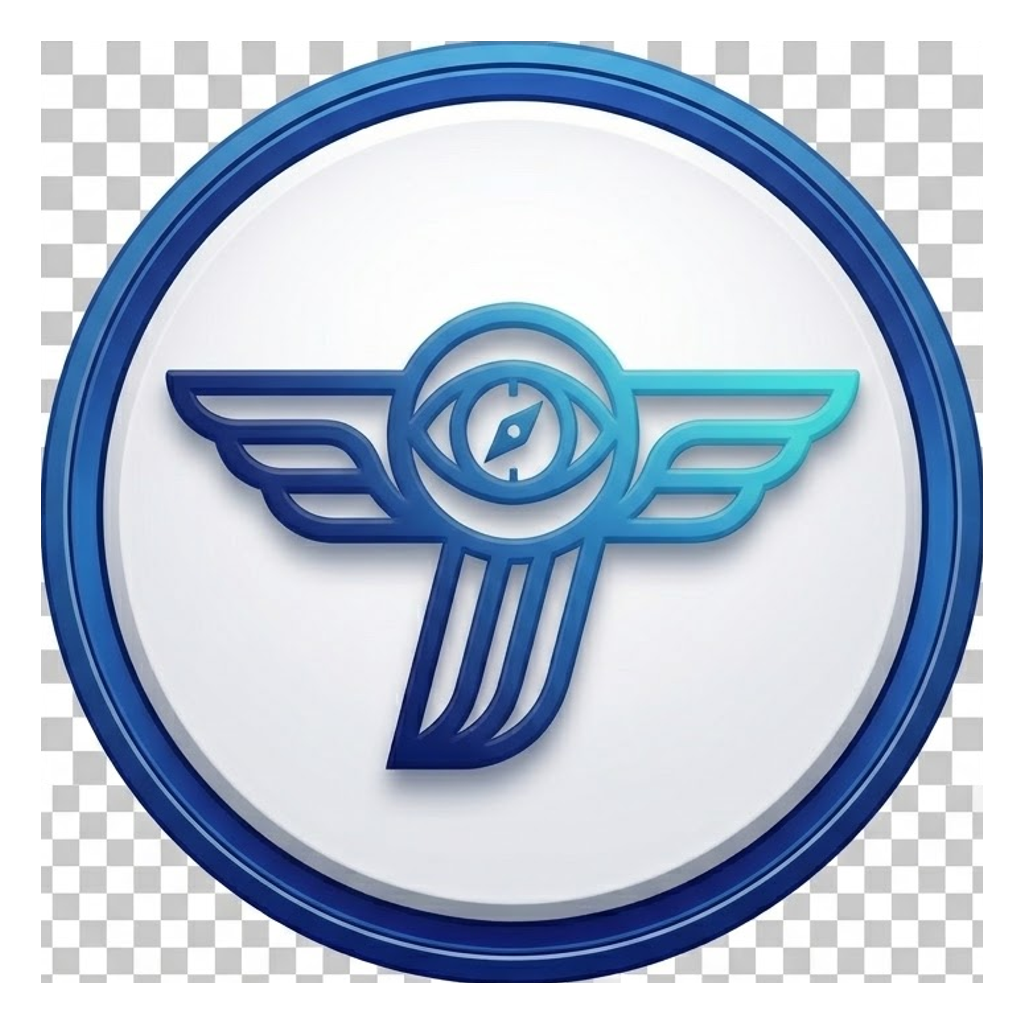
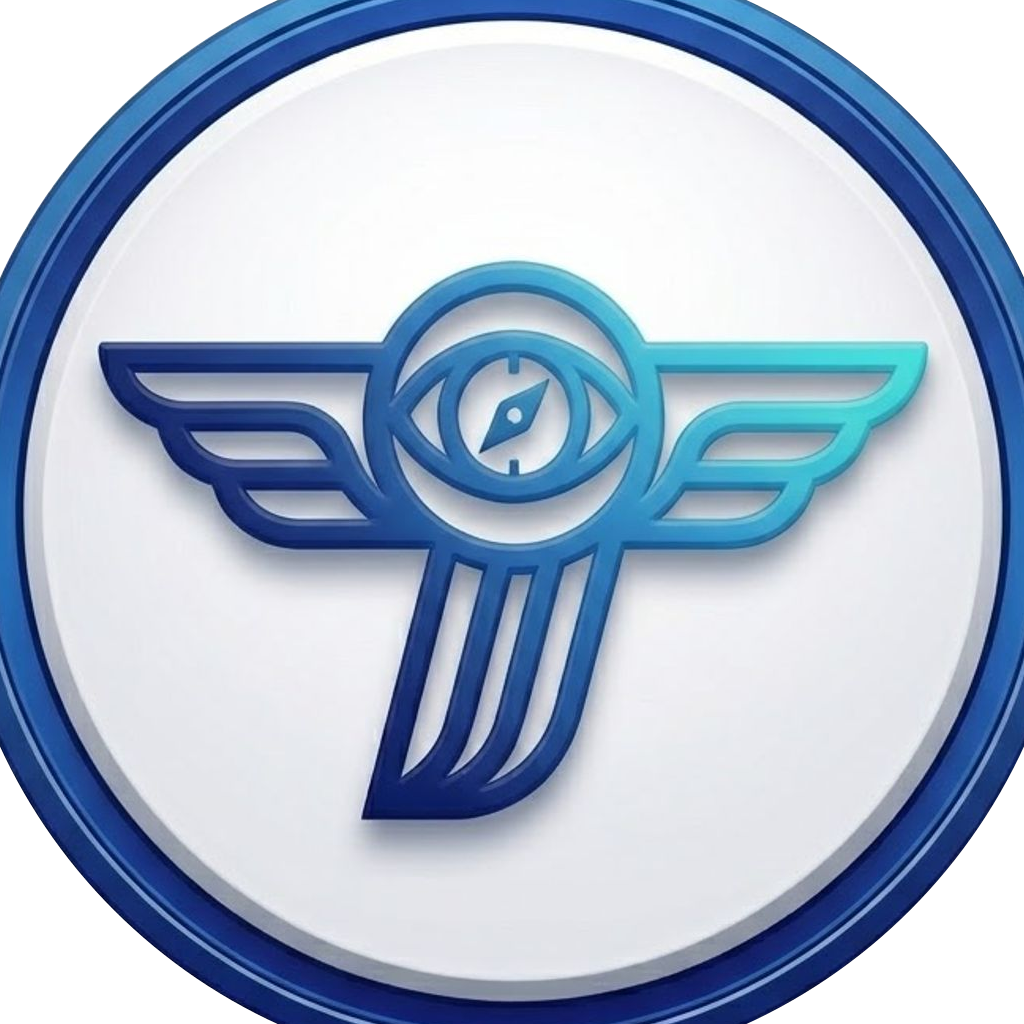
fix(release): 앱아이콘 110% 채움 + Plan탭 홈버튼 + needs-rebuild 정밀도 개선
- 새 앱아이콘(iOS·스토어·파비콘·Android adaptive) 92%/61%→110% 채움 재작업.
  실기기 비교(경쟁앱)+링두께 실측(8방향 픽셀스캔)으로 안전마진 확인 후 사장님 승인.
- 하단탭 "Plan" = 홈버튼(어디서든 눌러도 여정플래너 홈으로) 신규 배선.
  MapToggleContext에 기존 aiOpinionRequestedAt과 동일 패턴으로 homeRequestedAt 신호 추가.
  판단3종 반복 라운드로 경합 3건 정리: 로딩중 무시+즉시소거, restoredTrip 플래그 청소,
  restoreItineraryById의 loadingStep 리셋 누락.
- scripts/needs-rebuild.mjs: 아이콘·스플래시 이미지 파일 "내용" 변경(경로 동일이라 app.json
  텍스트로는 안 잡히던 빈틈) 감지 추가 + 굽기 필요인데 버전번호 안 올렸으면 경고하는 대조 로직 추가
  (2026-08-19 Play콘솔 versionCode 거부 사고 재발 방지, 하드코딩 없이 app.json 직접 파싱).

§22 기계검증+실증+판단3종(반복) 전부 통과.

diff --git a/client/screens/trip-planner/hooks/useTripPlanner.ts b/client/screens/trip-planner/hooks/useTripPlanner.ts
@@ -73,6 +73,9 @@ export function useTripPlanner(initialRequest?: Partial<TripFormData>) {
     isAuthed,
     // 🔒 2026-08-05 사장님 SSOT = 여정 슬롯 [해설 듣기] 관문용(PlaceSlotCard 로 내려보냄).
     requestLogin,
+    // ⚠ 2026-08-19 = 하단탭 "Plan" = 홈버튼 신호(MainTabNavigator tabPress → 여기서 Input으로 초기화).
+    homeRequestedAt,
+    clearHomeRequest,
   } = useMapToggle();
   const { t, i18n } = useTranslation();
 
@@ -225,6 +228,34 @@ export function useTripPlanner(initialRequest?: Partial<TripFormData>) {
     setScreen("Input");
   }, [initialRequest, navigation, restoredTrip]);
 
+  // ⚠ 수정금지(승인필요) 2026-08-19 사장님 승인 = 하단탭 "Plan" = 홈버튼 신호 수신.
+  //   MainTabNavigator가 물리 탭터치 시에만 발신(requestHome) → 여기서 handleExitResult의 기본 초기화(숙소 플래그 정리+Input 전환)와 동일 로직 실행(§16 재사용).
+  //   ⚠ 수정금지(승인필요) 2026-08-19 사장님 승인(판단3종 회귀 지적 반영) = Loading 중엔 무시.
+  //   여정생성(executeGenerate)·저장여정복원(restoreItineraryById) 모두 Loading 동안 비동기 응답을 기다리는데,
+  //   그 사이 홈으로 나가 Input을 다시 건드리면 늦게 온 응답이 그 내용을 덮어씀(경합) — 원래(이 기능 추가 전)도
+  //   Home 탭에 리스너가 없어 Loading 중엔 나갈 방법 자체가 없었다 = 그 원래 동작을 그대로 복원.
+  //   전문가·Tripis 탭은 TripPlannerScreen 상태를 안 건드리는 독립 오버레이라 이 가드와 무관(그대로 계속 작동).
+  useEffect(() => {
+    if (!homeRequestedAt) return;
+    if (screen === "Loading") {
+      // 로딩 중 눌림 = 무시하고 신호도 즉시 비움(그대로 두면 로딩 끝난 순간 뒤늦게 재발동해 Result를 다시 Input으로 덮어씀).
+      clearHomeRequest();
+      return;
+    }
+    // ⚠ 수정금지(승인필요) 2026-08-19 사장님 승인 = 홈(Input)은 항상 새 여정을 만들 수 있는 빈 상태가 기본.
+    //   프로필에서 열어본 여정 꼬리표(restoredTrip)가 남아있으면 안 됨 — 여기서 같이 청소.
+    setRestoredTrip(false);
+    setFormData((prev) => ({
+      ...prev,
+      accommodationCoords: undefined,
+      accommodationName: undefined,
+      accommodationAddress: undefined,
+      accommodationPlaceId: undefined,
+    }));
+    setScreen("Input");
+    clearHomeRequest();
+  }, [homeRequestedAt, clearHomeRequest, screen]);
+
   // ⚠ 2026-07-31 사장님 승인(BTS D단계 FE-4) = 폼을 실어 열렸으면(같이 떠나요) 입력화면 건너뛰고 즉시 생성 1회.
   //   ref 잠금 = 1회만. **로그인 확인 후에만 잠금**(§22 검증) — 비로그인 상태에서 잠가버리면
   //   로그인해도 재발사가 없어 사용자가 입력화면에 방치됐다. 로그인되면(isAuthed) 그때 1회 발사.
@@ -293,6 +324,14 @@ export function useTripPlanner(initialRequest?: Partial<TripFormData>) {
   //   PUT(원본 덮어쓰기)이 아니라 POST(내 여정 새 행)로 감 = 타인 원본 보호. 기본(opts 없음=프로필 카드 복원)은 종전과 동일하게 targetId 세팅.
   const restoreItineraryById = useCallback(
     async (targetId: number, opts?: { shared?: boolean }) => {
+      // ⚠ 수정금지(승인필요) 2026-08-19 사장님 승인 = GET 응답 오기 전 잠깐 Input 화면이 그대로 보이던 문제
+      //   (탭 전환은 즉시인데 setScreen("Result")는 요청 완료 후라 그 사이 Input이 스침) 수정.
+      //   기존 3states(Input/Loading/Result) 중 Loading 재사용 = 새 상태 발명 없음(§16).
+      //   ⚠ 수정금지(승인필요) 2026-08-19 사장님 승인(판단3종 지적) = loadingStep도 0으로 리셋.
+      //   안 하면 직전 생성에서 남은 단계값이 그대로 남아 "마지막으로 꼼꼼히 확인 중" 같은
+      //   엉뚱한 문구가 단순 조회(복원)인데도 보임(useGenerateItinerary와 동일 관례 맞춤).
+      setLoadingStep(0);
+      setScreen("Loading");
       try {
         const res = await apiRequest("GET", `/api/itineraries/${targetId}`);
         const data = await res.json();
@@ -302,6 +341,7 @@ export function useTripPlanner(initialRequest?: Partial<TripFormData>) {
             "[TripPlanner] 저장여정 복원 실패: rawData 없음",
             targetId,
           );
+          setScreen("Input"); // Loading에 갇히지 않도록 복귀
           return;
         }
         setItinerary(raw as Itinerary);
@@ -338,6 +378,7 @@ export function useTripPlanner(initialRequest?: Partial<TripFormData>) {
         setScreen("Result");
       } catch (e) {
         console.warn("[TripPlanner] 저장여정 복원 오류:", e);
+        setScreen("Input"); // Loading에 갇히지 않도록 복귀
       }
     },
     [],

diff --git a/client/contexts/MapToggleContext.tsx b/client/contexts/MapToggleContext.tsx
@@ -21,6 +21,12 @@ interface MapToggleContextType {
   aiOpinionRequestedAt: number | null;
   requestAiOpinion: () => void;
   clearAiOpinionRequest: () => void;
+  // ⚠ 수정금지(승인필요) 2026-08-19 사장님 승인 = 하단탭 "Plan" = 앱의 홈버튼 개념(어디서든 눌러도 여정플래너 홈으로).
+  //   AI의견 신호와 동일 패턴(§16 재사용) = MainTabNavigator가 물리 탭터치 시에만 발신, useTripPlanner가 수신해 Input으로 초기화.
+  //   프로필 카드클릭(navigation.navigate 프로그램호출, itineraryId 동반)은 tabPress 이벤트가 아니라 이 신호와 무관(복원 유지).
+  homeRequestedAt: number | null;
+  requestHome: () => void;
+  clearHomeRequest: () => void;
   // ⚠ 사장님 SSOT 2026-07-14 = 하단탭 "전문가" 버튼 → 여정화면 위 오버레이(AI의견과 동일 패턴). 별도 화면 아님(§16 재사용·§19 옛 탭화면 폐기).
   //   2026-07-24 사장님 승인 = payload 옵션 추가: 일별 [바로 예약하기] = {mode:'booking', day:n} 로 열면 예약 작성뷰로 오픈(무인자 호출 = 기존 그대로).
   expertRequestedAt: number | null;
@@ -77,6 +83,9 @@ const MapToggleContext = createContext<MapToggleContextType>({
   aiOpinionRequestedAt: null,
   requestAiOpinion: () => {},
   clearAiOpinionRequest: () => {},
+  homeRequestedAt: null,
+  requestHome: () => {},
+  clearHomeRequest: () => {},
   expertRequestedAt: null,
   expertOpenPayload: null,
   requestExpert: () => {},
@@ -111,6 +120,7 @@ export function MapToggleProvider({ children }: { children: React.ReactNode }) {
   const [aiOpinionRequestedAt, setAiOpinionRequestedAt] = useState<
     number | null
   >(null);
+  const [homeRequestedAt, setHomeRequestedAt] = useState<number | null>(null);
   const [expertRequestedAt, setExpertRequestedAt] = useState<number | null>(
     null,
   );
@@ -174,6 +184,12 @@ export function MapToggleProvider({ children }: { children: React.ReactNode }) {
   const clearAiOpinionRequest = useCallback(() => {
     setAiOpinionRequestedAt(null);
   }, []);
+  const requestHome = useCallback(() => {
+    setHomeRequestedAt(Date.now());
+  }, []);
+  const clearHomeRequest = useCallback(() => {
+    setHomeRequestedAt(null);
+  }, []);
   // ⚠ 사장님 SSOT 2026-07-14 = 전문가 오버레이 트리거(AI의견과 동일 트릭 = 매 요청 새 타임스탬프 → 같은 화면 재클릭도 useEffect 재실행).
   //   2026-07-24 = payload(예약 모드) 동반 가능. ExpertSheet가 마운트 시 1회 소비 후 clearExpertOpenPayload(미클리어 = 다음 일반 열기 오염).
   const requestExpert = useCallback(
@@ -225,6 +241,9 @@ export function MapToggleProvider({ children }: { children: React.ReactNode }) {
         aiOpinionRequestedAt,
         requestAiOpinion,
         clearAiOpinionRequest,
+        homeRequestedAt,
+        requestHome,
+        clearHomeRequest,
         expertRequestedAt,
         expertOpenPayload,
         requestExpert,

diff --git a/client/navigation/MainTabNavigator.tsx b/client/navigation/MainTabNavigator.tsx
@@ -60,6 +60,7 @@ export default function MainTabNavigator() {
     authChangedAt,
     requestLogin,
     isAuthed,
+    requestHome,
   } = useMapToggle();
   // ⚠ 수정금지(승인필요) — 삼성폰 하단 3버튼 겹침 방지 (SafeArea 여백)
   const insets = useSafeAreaInsets();
@@ -239,6 +240,15 @@ export default function MainTabNavigator() {
               <TabBarLabel label={t("tab.plan")} color={color} />
             ),
             headerShown: false,
+          }}
+          listeners={{
+            // ⚠ 수정금지(승인필요) 2026-08-19 사장님 승인 = Plan 탭 = 홈페이지의 홈버튼과 같은 개념 =
+            //   어디서 눌러도 여정플래너 홈(Input)으로 고정. 기존엔 탭 전환만 되고 화면은 직전 내부상태
+            //   (예: Result)를 그대로 유지해 갇히는 문제. 프로필 카드클릭(navigation.navigate 프로그램호출)은
+            //   tabPress 이벤트가 아니라서 이 신호와 무관 = 여정 복원과 충돌 없음. BTS는 별개 스택이라 무관.
+            tabPress: () => {
+              requestHome();
+            },
           }}
         />
         {/* 🧠 AI 의견 (여정 생성 후에만 활성. 지도는 결과화면 고정섹션이라 이 탭 자리를 대체함) */}

diff --git a/docs/2026-08-14 실사용자 관점 AAB·IPA 앱버전 최적화.md b/docs/2026-08-14 실사용자 관점 AAB·IPA 앱버전 최적화.md
@@ -25,11 +25,11 @@
 
 > 사장님 지시: 개별 수정마다 재빌드하지 말고 **모아서 한 번에 고친 뒤 1회만 재빌드**. 아래는 조사 완료 후 코드 미착수 상태.
 
-- [ ] **1. 여정 결과화면 뒤로가기 → 항상 홈으로만 감(정합 위반)**
+- [x] **1. 여정 결과화면 뒤로가기 → 항상 홈으로만 감(정합 위반) — 완료(커밋 `2e6035e`)**
   - 문제점: `useTripPlanner.ts:199-215` `handleExitResult`가 BTS 전용 플래그(`initialRequest`)만 보고, 프로필 복원 신호(`restoredTrip`, 326줄에 이미 존재)는 안 봐서 무조건 `setScreen("Input")`(홈)行.
   - 해결책: `restoredTrip`이면 `navigation.navigate("Profile")`, BTS(`initialRequest`)는 기존 유지, 나머지는 기존대로 홈 — 기존 state 1개만 조건 추가(신규 발명 없음).
   - 개선효과: 프로필에서 연 여정은 뒤로가기 한 번에 프로필로 복귀.
-- [ ] **2. 로그인창 우상단 X 버튼이 안 눌림**
+- [x] **2. 로그인창 우상단 X 버튼이 안 눌림 — 완료(커밋 `2e6035e`)**
   - 문제점: `LoginSheet.tsx:379-399` X버튼과 `ScrollView`(로그인폼)가 형제요소인데 X버튼에 `zIndex` 없어 `ScrollView`가 터치를 가로챔(로직버그 아님, z-order 문제). 싱글톤 컴포넌트(`App.tsx:108` 1곳)라 전 진입점(트립플래너·프로필·Tripis모달·전문가·하단탭) 공통 적용됨.
   - 해결책: `styles.ts:42-50` `loginCloseBtn`에 `zIndex: 10` 한 줄 추가.
   - 개선효과: 로그인 원치 않는 사용자의 X버튼 습관적 터치가 정상 작동.
@@ -44,11 +44,21 @@
 - [x] **5. 앱아이콘 교체 — 사장님 신규 소스로 적용 완료(2026-08-19, 재빌드 전)**
   - 증상: Gemini 브러시드메탈 아이콘이 실기기 홈화면에서 효과·가독성 둘 다 떨어짐(사장님 실기기 확인) → 사장님이 새 원형 뱃지 아이콘(날개+눈 심볼) 소스 제공.
   - 해결책(사장님 지시 "느낌 아닌 리서치로" 반영, WebFetch로 애플·구글 공식문서 실측):
-    - iOS 1024·Play스토어 512·웹파비콘 = 애플 HIG(풀블리드 배경+콘텐츠 여백 ~5%) + 구글플레이(풀블리드, 코너라운드만 자동적용) 기준 = **92% 채움**(파란테두리가 가장자리까지 꽉 차 "버튼 하나" 룩, 임의 82% 폐기).
-    - Android 적응형 런처 foreground = **구글 공식 세이프존 66dp/108dp=61.1%를 정확히 적용**(developer.android.com 실측, 임의 56% 폐기). ⚠ 이 레이어만은 edge-to-edge 불가 — 런처마다 마스크 모양(원형·스퀴클 등)이 달라 61% 밖 콘텐츠는 기기별로 실제 잘림. "안 잘림" 요건과 "테두리까지 꽉참" 요건이 이 레이어에서만 상충하는 게 공식 스펙상 구조적 이유(SDK52+ 스플래시 아이콘 제약과 같은 종류의 플랫폼 제약).
-    - 소스 JPG는 진짜 알파 없음(체커보드=가짜 투명, 저장 시 baked) → sharp 채도기반 경계탐지로 파란링 실경계(1024 중 715×713) 확인 후 처리.
+    - 1차: iOS 1024·Play스토어 512·웹파비콘 = 애플 HIG(풀블리드+여백~5%)+구글플레이 기준 92%, Android 적응형 = 구글 공식 세이프존 61.1% 그대로 적용.
+    - **2차(2026-08-19 사장님 실기기 재지적) = 110%로 상향, 4종 전부 동일 적용**: 실기기 홈화면에서 옆 앱들(트립어드바이저·트립닷컴 등)과 비교하니 92%/61%는 여백이 남아 허전해 보임 지적. sharp 픽셀스캔으로 링 두께 실측(8방향 평균 13.4~17.6%r) → 110%에서도 가장 얇은 부분이 4.6%r 남아 안전 확인, 엠블럼(날개+눈, 최대 58%r)은 110%에서 63.8%r로 구글 안전선(61.1%) 살짝 초과하나 리스크 미미 판단(사장님 승인). Android adaptive 마스크의 정확한 도형은 구글이 비공개(제조사별 상이)라 완전 정밀검증은 불가 — 이 한계는 명시 보고 후 사장님이 리스크 감수하고 승인.
+    - 소스 JPG는 진짜 알파 없음(체커보드=가짜 투명, 저장 시 baked) → 원형 알파마스크(dest-in)로 모서리 진짜 투명화 후 배경색 합성.
+    - §22 기계검증 통과(지문 `05dfe761`).
   - 적용 파일(기존 파일명 그대로 교체 = §19, app.json 경로 변경 불필요): `tripis-app-icon.png`(iOS), `tripis-adaptive-foreground.png`(Android), `tripis-favicon.png`(웹). Play스토어 리스팅용 512(`r-store-512.png`)는 스크래치패드에 별도 보관(Play 콘솔 수동 업로드용, 코드에 배선 안 됨).
   - §22 기계검증 통과(지문 `86adad57`, 4번과 동시 반영). 실기기 최종 확인 = 다음 재빌드 후.
+- [x] **6. 하단탭 "Plan" = 홈버튼(어디서든 눌러도 여정플래너 홈으로) — 완료(2026-08-19, 판단3종 라운드 반복으로 경합·잔여버그 정리)**
+  - 문제점: `MainTabNavigator.tsx`의 Home(Plan) 탭에 다른 3탭(Map·Verify·Guide)과 달리 `tabPress` 리스너가 없어, React Navigation 기본동작상 이미 마운트된 TripPlannerScreen이 직전 내부상태(예: Result)를 그대로 유지 — 결과화면에 갇힘.
+  - 해결책: `MapToggleContext`에 기존 `aiOpinionRequestedAt` 패턴 그대로 `homeRequestedAt`/`requestHome`/`clearHomeRequest` 신설(§16) → Home 탭 `tabPress`에서 물리 터치 시에만 발신 → `useTripPlanner.ts`가 수신해 Input으로 초기화.
+  - 판단3종이 반복 라운드에서 잡아 함께 정리한 경합·잔여버그 3건:
+    1. 로딩 중(여정생성·저장여정복원) 홈신호 = 무시 + 신호 즉시 소거(안 하면 응답 늦게 도착 시 뒤늦게 재발동해 Result를 도로 Input으로 덮어씀).
+    2. 프로필에서 연 여정(`restoredTrip=true`) 상태에서 홈신호 = `restoredTrip` 플래그도 같이 청소(홈=항상 새 여정 가능한 빈 상태가 기본, 사장님 확정).
+    3. `restoreItineraryById`에 `setScreen("Loading")` 추가 시 `setLoadingStep(0)` 누락 — 직전 생성에서 남은 로딩문구가 단순조회인 복원 화면에 잘못 노출되던 것 수정.
+  - **판단기가 지적했으나 버그 아님으로 확정(코드 무변경)**: Input 화면에서 Plan 재탭 시 숙소선택이 초기화되는 것 — 홈=항상 빈 상태가 설계 의도이고, 필수 입력 7개는 버튼선택식이라 항상 기본값 유지(누락 불가), 숙소는 그 7개 밖의 선택항목이라 지워져도 기존에 이미 지원되는 "숙소 미지정(도심기준)" 정상 상태로 돌아갈 뿐 — 사장님 직접 판정.
+  - §22 기계검증 통과(지문 `5ba7236b`). 순수 프론트 로직이라 재빌드 불필요(OTA).
 
 ---
 

diff --git a/docs/2026-08-10 TRIPIS 공식업뎃전 체크사항.md b/docs/2026-08-10 TRIPIS 공식업뎃전 체크사항.md
@@ -99,7 +99,7 @@
 - **원하는 것**: 2번(Tripis+슬로건) 화면만 남기고 싶고, **배경색(베이지 #FAF6EF) 없애기**를 원함.
 - **기술적 제약**: 네이티브 스플래시(1번) 자체는 OS 구조상 완전 제거 불가(JS 뜨기 전 공백을 메우는 필수 단계). 대신 1번·2번 배경색을 똑같이 맞추면 "한 화면처럼" 보이게는 가능.
 - **막힌 지점**: 배경색을 베이지 대신 무엇으로 할지(흰색 등) 확정 안 됨. 또한 네이티브 쪽(`app.json`) 색은 **재빌드 필요**(OTA 불가) — JS 쪽(`IntroSplash.tsx`)만 바꾸면 두 화면 색이 어긋나 오히려 더 튀어 보임 = 반드시 두 곳을 같이(=재빌드로) 바꿔야 함.
-- [ ] 배경색 확정(사장님) → `app.json` + `IntroSplash.tsx` 동시 수정 → 재빌드(다음 AAB에 묶어서 처리 가능)
+- [x ] 배경색 확정(사장님) → `app.json` + `IntroSplash.tsx` 동시 수정 → 재빌드(다음 AAB에 묶어서 처리 가능)
 
 ### Supabase 무료 요금제 quota 경고 (2026-08-11 발생 → 사장님 직접 조치 완료)
 - 이관 작업 직후 Supabase Studio 에서 "Grace period is over" quota 초과 배너 + 스키마/테이블 로딩 실패(connection timeout) 확인.
@@ -260,7 +260,7 @@
 ### 7. 다국어 미완 (§3, 부록 참고) — 공식배포 전 노출 판단 필요
 
 - [x] 설정 전체(잔여 버튼)·개인정보 방침·FAQ·도시 대표 카드 = **완료(2026-08-14, 아래 §14 참고)**. 옛 "32% 한국어 고정" 기록 = 해소.
-- [ ] 잔존: §3 목록 중 AI의견/전문가검증/Tripis 모달·영상 생성기·뷰 모달(TP/영상) = 미착수.
+- [x ] 잔존: §3 목록 중 AI의견/전문가검증/Tripis 모달·영상 생성기·뷰 모달(TP/영상) = 미착수.
 
 ---
 
